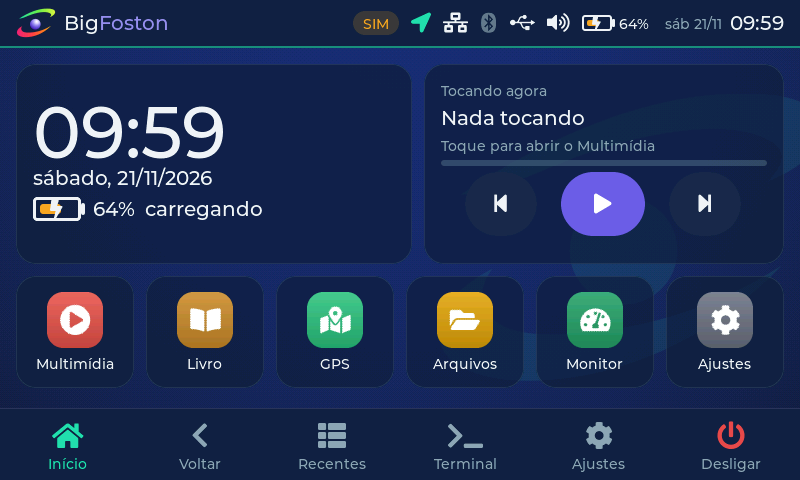
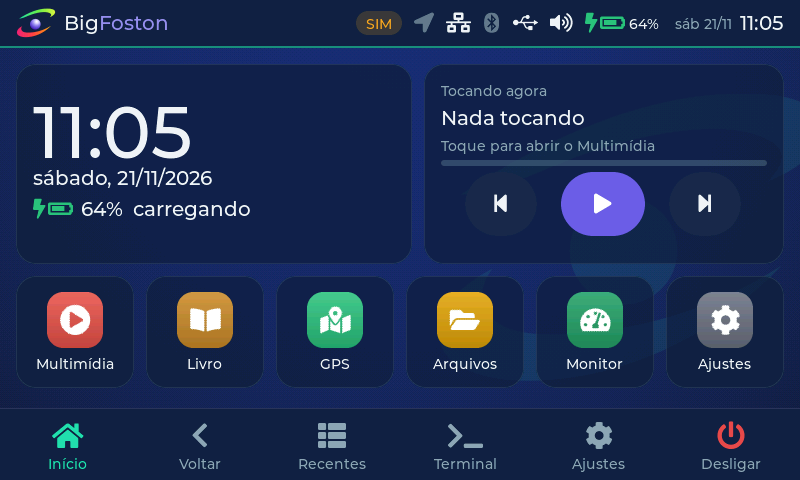
Bateria: ícone no estilo antigo, todo verde no carregador, laranja na bateria, vermelho abaixo de 10%
O ícone desenhado ficou grosso e o verde dependia do fim do algoritmo de
carga (nunca na USB do PC). Agora é o símbolo da fonte (nível em 5 passos)
com o ícone inteiro colorido: verde com raio com carregador ou cabo ligado,
laranja na bateria, vermelho abaixo de 10%. O texto do Painel continua
dizendo carregando / carga completa / ligado, sem carregar.

Changed region(s): [[0.0312, 0.2188, 0.2812, 0.3438], [0.0312, 0.4062, 0.3438, 0.4688], [0.4375, 0.0312, 1.0, 0.0625]]

diff --git a/src/ui/widgets/battery.c b/src/ui/widgets/battery.c
@@ -2,66 +2,36 @@
 #include "battery.h"
 #include "../core/theme.h"
 #include "../core/i18n.h"
+#include <string.h>
 
 /* filhos do contêiner, na ordem de criação */
-enum { CH_BODY, CH_CAP, CH_BOLT };
+enum { CH_BOLT, CH_GLYPH };
 
-typedef struct {
-    int pct;
-    bf_bat_state_t st;
-    bool dark;              /* modo em que foi pintado (o Automático troca sem reconstruir) */
-} bat_state_t;
-
-static void bat_delete(lv_event_t *e)
+static void set_text_if(lv_obj_t *l, const char *t)
 {
-    lv_free(lv_event_get_user_data(e));
+    const char *old = lv_label_get_text(l);
+    if(!old || strcmp(old, t)) lv_label_set_text(l, t);
 }
 
-lv_obj_t *battery_create(lv_obj_t *parent, int w, int h, const lv_font_t *font)
+lv_obj_t *battery_create(lv_obj_t *parent, const lv_font_t *font)
 {
-    int cap_w = w / 10 < 2 ? 2 : w / 10;
-    int border = h >= 24 ? 3 : 2;
     lv_obj_t *c = lv_obj_create(parent);
     lv_obj_remove_style_all(c);
-    lv_obj_set_size(c, w + cap_w, h);
+    lv_obj_set_size(c, LV_SIZE_CONTENT, LV_SIZE_CONTENT);
+    lv_obj_set_flex_flow(c, LV_FLEX_FLOW_ROW);
+    lv_obj_set_flex_align(c, LV_FLEX_ALIGN_START, LV_FLEX_ALIGN_CENTER, LV_FLEX_ALIGN_CENTER);
+    lv_obj_set_style_pad_column(c, 2, 0);
     lv_obj_remove_flag(c, LV_OBJ_FLAG_CLICKABLE | LV_OBJ_FLAG_SCROLLABLE);
-
-    lv_obj_t *body = lv_obj_create(c);
-    lv_obj_remove_style_all(body);
-    lv_obj_set_size(body, w, h);
-    lv_obj_set_style_border_width(body, border, 0);
-    lv_obj_set_style_radius(body, h / 5, 0);
-    lv_obj_set_style_pad_all(body, border + 1, 0);
-    lv_obj_remove_flag(body, LV_OBJ_FLAG_CLICKABLE | LV_OBJ_FLAG_SCROLLABLE);
-
-    lv_obj_t *fill = lv_obj_create(body);           /* nível: filho do corpo */
-    lv_obj_remove_style_all(fill);
-    lv_obj_set_height(fill, LV_PCT(100));
-    lv_obj_set_style_bg_opa(fill, LV_OPA_COVER, 0);
-    lv_obj_set_style_radius(fill, h / 8, 0);
-    lv_obj_remove_flag(fill, LV_OBJ_FLAG_CLICKABLE | LV_OBJ_FLAG_SCROLLABLE);
-
-    lv_obj_t *cap = lv_obj_create(c);
-    lv_obj_remove_style_all(cap);
-    lv_obj_set_size(cap, cap_w, h / 2 < 4 ? 4 : h / 2);
-    lv_obj_align(cap, LV_ALIGN_RIGHT_MID, 0, 0);
-    lv_obj_set_style_bg_opa(cap, LV_OPA_COVER, 0);
-    lv_obj_set_style_radius(cap, cap_w / 2, 0);
 
     lv_obj_t *bolt = lv_label_create(c);
     lv_label_set_text(bolt, LV_SYMBOL_CHARGE);
     lv_obj_set_style_text_font(bolt, font, 0);
-    lv_obj_align(bolt, LV_ALIGN_LEFT_MID, (w - lv_font_get_glyph_width(font, 0xF0E7, 0)) / 2, 0);
     lv_obj_add_flag(bolt, LV_OBJ_FLAG_HIDDEN);
 
-    bat_state_t *bs = lv_malloc(sizeof(*bs));
-    if(bs) {
-        bs->pct = -2;               /* força a primeira pintura */
-        bs->st = BF_BAT_UNKNOWN;
-        bs->dark = false;
-        lv_obj_set_user_data(c, bs);
-        lv_obj_add_event_cb(c, bat_delete, LV_EVENT_DELETE, bs);
-    }
+    lv_obj_t *glyph = lv_label_create(c);
+    lv_label_set_text(glyph, LV_SYMBOL_BATTERY_EMPTY);
+    lv_obj_set_style_text_font(glyph, font, 0);
+
     battery_set(c, -1, BF_BAT_UNKNOWN);
     return c;
 }
@@ -70,61 +40,29 @@ void battery_set(lv_obj_t *c, int pct, bf_bat_state_t st)
 {
     if(!c) return;
     const bf_palette_t *p = pal();
-    bat_state_t *bs = lv_obj_get_user_data(c);
-    bool dark = theme_dark_now();
-    if(pct > 100) pct = 100;
-    if(pct < -1) pct = -1;
-    /* nada mudou: não invalida a tela (a barra superior atualiza a cada segundo) */
-    if(bs && bs->pct == pct && bs->st == st && bs->dark == dark)
-        return;
-    if(bs) { bs->pct = pct; bs->st = st; bs->dark = dark; }
-
-    lv_obj_t *body = lv_obj_get_child(c, CH_BODY);
-    lv_obj_t *cap = lv_obj_get_child(c, CH_CAP);
     lv_obj_t *bolt = lv_obj_get_child(c, CH_BOLT);
-    lv_obj_t *fill = lv_obj_get_child(body, 0);
+    lv_obj_t *glyph = lv_obj_get_child(c, CH_GLYPH);
+    if(pct > 100) pct = 100;
+    bool plugged = st == BF_BAT_CHARGING || st == BF_BAT_FULL || st == BF_BAT_NOT_CHARGING;
+    if(st == BF_BAT_FULL) pct = 100;
 
-    lv_color_t outline = p->text, level = p->text, bolt_c = p->text;
-    bool show_bolt = false;
-    switch(st) {
-    case BF_BAT_CHARGING:
-        level = p->warning;
-        show_bolt = true;
-        break;
-    case BF_BAT_FULL:
-        outline = level = p->success;
-        pct = 100;                      /* o algoritmo terminou a carga */
-        show_bolt = true;
-        break;
-    case BF_BAT_NOT_CHARGING:            /* carregador ligado, carga parada: nível cinza */
-        level = p->text_dim;
-        show_bolt = true;
-        break;
-    default:
-        if(pct >= 0 && pct <= 15) outline = level = p->danger;
-        break;
+    const char *sym = LV_SYMBOL_BATTERY_EMPTY;
+    if(pct >= 0)
+        sym = pct > 80 ? LV_SYMBOL_BATTERY_FULL : pct > 55 ? LV_SYMBOL_BATTERY_3 :
+              pct > 30 ? LV_SYMBOL_BATTERY_2 : pct > 10 ? LV_SYMBOL_BATTERY_1 : LV_SYMBOL_BATTERY_EMPTY;
+    set_text_if(glyph, sym);
+
+    lv_color_t col;
+    if(plugged) col = p->success;
+    else if(pct < 0) col = p->text_dim;
+    else if(pct < 10) col = p->danger;
+    else col = lv_color_hex(theme_dark_now() ? 0xff8c1a : 0xc8600e);   /* laranja */
+    /* a barra superior chama a cada segundo: só mexe no estilo se a cor mudou */
+    if(!lv_color_eq(lv_obj_get_style_text_color(glyph, 0), col)) {
+        lv_obj_set_style_text_color(glyph, col, 0);
+        lv_obj_set_style_text_color(bolt, col, 0);
     }
-    if(pct < 0) {
-        outline = p->text_dim;
-        show_bolt = show_bolt && st != BF_BAT_UNKNOWN;
-    }
-
-    lv_obj_set_style_border_color(body, outline, 0);
-    lv_obj_set_style_bg_color(cap, outline, 0);
-    lv_obj_set_style_bg_color(fill, level, 0);
-    /* nível: pelo menos um traço visível acima de 0% */
-    lv_obj_update_layout(body);
-    int inner = lv_obj_get_content_width(body);
-    int fw = pct <= 0 ? 0 : inner * pct / 100;
-    if(pct > 0 && fw < 2) fw = 2;
-    lv_obj_set_width(fill, fw);
-    if(fw) lv_obj_remove_flag(fill, LV_OBJ_FLAG_HIDDEN);
-    else lv_obj_add_flag(fill, LV_OBJ_FLAG_HIDDEN);
-
-    /* o raio fica por cima do nível, na cor do texto (claro no modo escuro,
-     * escuro no claro): contrasta com o âmbar/verde e com o fundo */
-    lv_obj_set_style_text_color(bolt, bolt_c, 0);
-    if(show_bolt) lv_obj_remove_flag(bolt, LV_OBJ_FLAG_HIDDEN);
+    if(plugged) lv_obj_remove_flag(bolt, LV_OBJ_FLAG_HIDDEN);
     else lv_obj_add_flag(bolt, LV_OBJ_FLAG_HIDDEN);
 }
 

diff --git a/src/ui/widgets/battery.h b/src/ui/widgets/battery.h
@@ -1,20 +1,20 @@
-/* battery.h — ícone de bateria desenhado (contorno, nível, raio).
+/* battery.h — ícone de bateria (símbolo da fonte, com o nível em 5 passos).
  *
- *   descarregando        contorno e nível na cor do texto; vermelho <= 15%
- *   carregando           nível âmbar e um raio por cima
- *   carga completa       bateria verde, com o raio (carregador ligado)
- *   ligado sem carregar  nível cinza com o raio (fonte fraca, ex. USB do PC)
- *   desconhecido         só o contorno, apagado (nunca inventa nível)
+ * O ícone inteiro muda de cor:
+ *   verde     carregador ou cabo USB ligado (carregando, carga completa ou
+ *             ligado sem carregar), com um raio ao lado
+ *   laranja   usando a bateria
+ *   vermelho  usando a bateria, abaixo de 10%
+ *   apagado   desconhecido (nunca inventa nível)
  *
- * As cores vêm da paleta (verde, âmbar e vermelho são os mesmos em todos os
- * temas), então o verde de "carga completa" não se confunde com o destaque. */
+ * Verde, laranja e vermelho são os mesmos em todos os temas de cores (o
+ * laranja escurece no modo claro, para contrastar com o fundo). */
 #ifndef BF_BATTERY_H
 #define BF_BATTERY_H
 #include "lvgl.h"
 #include "../core/status.h"
 
-/* w x h é o corpo; o polo fica à direita (w/10 de largura). font: o do raio. */
-lv_obj_t *battery_create(lv_obj_t *parent, int w, int h, const lv_font_t *font);
+lv_obj_t *battery_create(lv_obj_t *parent, const lv_font_t *font);
 /* pct -1 = desconhecido */
 void battery_set(lv_obj_t *bat, int pct, bf_bat_state_t st);
 /* Rótulo curto do estado ("carregando", "carga completa"...); "" se descarregando. */

diff --git a/src/ui/core/screenshot.c b/src/ui/core/screenshot.c
@@ -137,7 +137,7 @@ int screenshot_run(const char *dir)
     sim_set_battery(64, 'c'); status_refresh(); pump(1100); shot("01d-bateria-carregando");
     sim_set_battery(100, 'f'); status_refresh(); pump(1100); shot("01e-bateria-carga-completa");
     sim_set_battery(88, 'n'); status_refresh(); pump(1100); shot("01f-bateria-ligado-sem-carregar");
-    sim_set_battery(12, 'd'); status_refresh(); pump(1100); shot("01g-bateria-fraca");
+    sim_set_battery(8, 'd'); status_refresh(); pump(1100); shot("01g-bateria-fraca");
     sim_set_battery(64, 'c'); status_refresh();
     go(SCR_POWER, 0);               shot("27b-potencia-carregando");
     sim_set_battery(-2, 0); status_refresh();      /* volta ao padrão (ou BIGFOSTON_SIM_BATTERY) */

diff --git a/src/ui/screens/scr_power.c b/src/ui/screens/scr_power.c
@@ -28,7 +28,7 @@ static void create(lv_obj_t *parent, int arg)
     lv_obj_set_flex_align(c, LV_FLEX_ALIGN_START, LV_FLEX_ALIGN_CENTER, LV_FLEX_ALIGN_CENTER);
     lv_obj_set_style_pad_column(c, BF_SP_XL, 0);
     bool known = s->battery_pct >= 0;
-    lv_obj_t *bat = battery_create(c, 84, 42, BF_FONT_L);
+    lv_obj_t *bat = battery_create(c, BF_FONT_L);
     battery_set(bat, s->battery_pct, s->battery_state);
     lv_obj_t *col = bf_plain(c);
     lv_obj_set_size(col, LV_SIZE_CONTENT, LV_SIZE_CONTENT);

diff --git a/src/ui/widgets/topbar.c b/src/ui/widgets/topbar.c
@@ -90,7 +90,7 @@ lv_obj_t *topbar_create(lv_obj_t *parent)
     lv_obj_set_flex_flow(batbox, LV_FLEX_FLOW_ROW);
     lv_obj_set_flex_align(batbox, LV_FLEX_ALIGN_START, LV_FLEX_ALIGN_CENTER, LV_FLEX_ALIGN_CENTER);
     lv_obj_set_style_pad_column(batbox, 4, 0);
-    ic_bat = battery_create(batbox, 30, 16, BF_FONT_S);
+    ic_bat = battery_create(batbox, BF_FONT_M);
     bat_pct = bf_label(batbox, "—", BF_FONT_S, p->text);
 
     lv_obj_t *clockbox = bf_plain(icons);

diff --git a/src/ui/screens/scr_home.c b/src/ui/screens/scr_home.c
@@ -340,7 +340,7 @@ static void create_panel(lv_obj_t *parent)
     lv_obj_set_flex_flow(brow, LV_FLEX_FLOW_ROW);
     lv_obj_set_flex_align(brow, LV_FLEX_ALIGN_START, LV_FLEX_ALIGN_CENTER, LV_FLEX_ALIGN_CENTER);
     lv_obj_set_style_pad_column(brow, BF_SP_S, 0);
-    bat_icon = battery_create(brow, 48, 24, BF_FONT_M);
+    bat_icon = battery_create(brow, BF_FONT_M);
     bat_lbl = bf_label(brow, "", BF_FONT_M, p->text);
 
     /* tocando agora */

diff --git a/docs/09-interface-ux-ui.md b/docs/09-interface-ux-ui.md
@@ -103,28 +103,28 @@ Cada ícone vem do provedor de status (`src/ui/core/status.h`):
 
 ### Ícone da bateria
 
-Desenhado (`src/ui/widgets/battery.c`): contorno, nível proporcional e um raio. O mesmo
-widget aparece na barra superior, no Início em modo Painel e em Ajustes > Potência. O
-estado vem de `/sys/class/power_supply/battery/status`.
+O símbolo de bateria da fonte (nível em 5 passos), com **o ícone inteiro colorido**
+(`src/ui/widgets/battery.c`), na barra superior, no Início em modo Painel e em
+Ajustes > Potência. O estado vem de `/sys/class/power_supply/battery/status`.
 
-| Estado | Aparência | Quando |
-|---|---|---|
-| descarregando | nível na cor do texto; **vermelho** em 15 % ou menos | sem carregador |
-| carregando | nível **âmbar** + raio | `Charging` |
-| carga completa | bateria **verde** + raio | `Full`: o algoritmo de carga terminou (corrente baixa em tensão constante, 2 h em CV ou 8 h no total) |
-| ligado, sem carregar | nível cinza + raio | `Not charging`: fonte fraca (USB do PC) ou falha |
-| desconhecido | só o contorno, apagado, e "—" | sem medidor |
+| Cor | Quando |
+|---|---|
+| **verde**, com um raio ao lado | carregador ou cabo USB ligado: carregando, carga completa ou ligado sem carregar |
+| **laranja** | usando a bateria |
+| **vermelho** | usando a bateria, abaixo de 10 % |
+| apagado, com "—" | sem medidor (nunca uma porcentagem inventada) |
 
-O verde, o âmbar e o vermelho são os mesmos em todos os temas de cores, então o verde
-de "carga completa" não se confunde com o destaque do tema. Durante a carga a
-porcentagem desconta os ~200 mV que o carregador soma à leitura (medido em 21/11/2026).
+O texto do Painel diz o estado: "carregando", "carga completa" (o algoritmo de carga
+terminou: corrente baixa em tensão constante, 2 h em CV ou 8 h no total) ou "ligado,
+sem carregar" (fonte fraca, como a USB do PC, ou falha). Durante a carga a porcentagem
+desconta os ~200 mV que o carregador soma à leitura (medido em 21/11/2026).
 
 | | |
 |---|---|
-| ![](images/ui/01d-bateria-carregando.png) | **Carregando** — âmbar com raio, "64% carregando". |
-| ![](images/ui/01e-bateria-carga-completa.png) | **Carga completa** — verde com raio. |
-| ![](images/ui/01f-bateria-ligado-sem-carregar.png) | **Ligado, sem carregar** — nível cinza com raio. |
-| ![](images/ui/01g-bateria-fraca.png) | **Bateria fraca** — vermelho em 15 % ou menos, sem carregador. |
+| ![](images/ui/01d-bateria-carregando.png) | **Carregando** — verde com raio, "64% carregando". |
+| ![](images/ui/01e-bateria-carga-completa.png) | **Carga completa**. |
+| ![](images/ui/01f-bateria-ligado-sem-carregar.png) | **Ligado, sem carregar** (USB do PC). |
+| ![](images/ui/01g-bateria-fraca.png) | **Bateria fraca** — vermelho abaixo de 10 %. |
 | ![](images/ui/27b-potencia-carregando.png) | **Potência** — o mesmo ícone, maior. |
 
 No simulador, `BIGFOSTON_SIM_BATTERY="64,c"` fixa o estado (`d` descarregando, `c`
